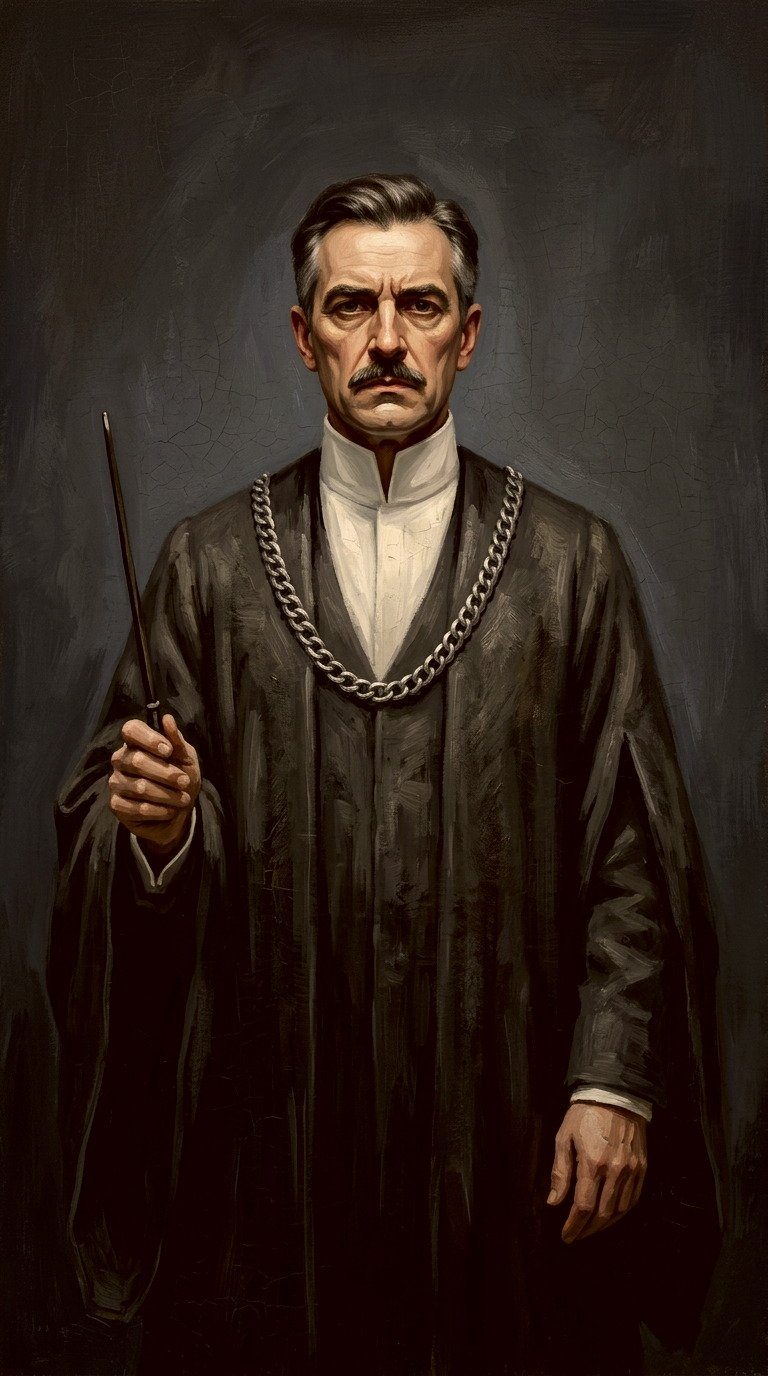
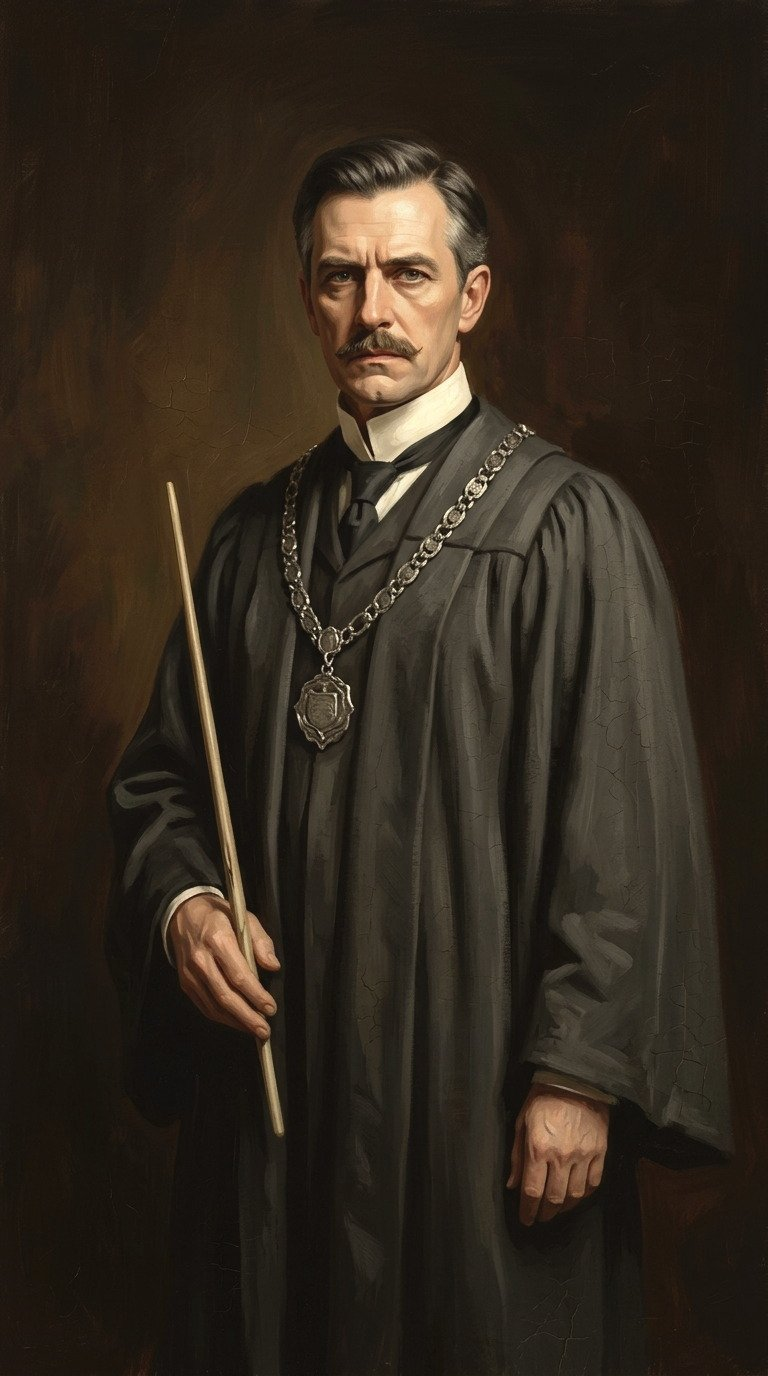
Portraetgalerie: Schulleiterwand mit 8 Rahmen, Zufallsbesetzung, Guards (keine Doppelung, letzte Figur bleibt), Caractacus-Bild ersetzt

diff --git a/index.html b/index.html
@@ -2480,6 +2480,46 @@ body{
     box-shadow:0 0 8px rgba(255,220,140,.9); animation:brauFunke .85s ease-out forwards; }
   @keyframes brauFunke { 0%{opacity:1; transform:translate(0,0) scale(1)} 100%{opacity:0; transform:translate(var(--dx),var(--dy)) scale(.2)} }
   .brau-stand { font-size:13px; color:#b8a883; margin-bottom:8px; }
+/* ===================== PORTRÄTGALERIE (Schulleiterwand) ===================== */
+#screen-portraits { padding: 14px 12px 96px; }
+.wall-head { display:flex; align-items:flex-start; justify-content:space-between; gap:10px; margin-bottom:12px; }
+.wall-head h2 { font-family: var(--font-serif); font-size:19px; margin:0 0 4px; color:var(--dark); letter-spacing:.4px; }
+.wall-sub { font-size:12.5px; color:var(--dark-light); line-height:1.45; max-width:70%; }
+.wall-back { flex:0 0 auto; border:1px solid rgba(197,165,90,.45); background:rgba(26,18,9,.75);
+  color:var(--gold-light); border-radius:10px; padding:7px 11px; font:inherit; font-size:12.5px; cursor:pointer; }
+.portrait-stage { position:relative; width:100%; aspect-ratio:4/3; border-radius:14px; overflow:hidden;
+  background-color:#241f19;
+  background-image: radial-gradient(120% 95% at 50% -10%, #4a3d2c 0%, #2b241c 45%, #12100d 100%);
+  box-shadow: inset 0 0 70px rgba(0,0,0,.8), 0 10px 26px rgba(0,0,0,.45); }
+.wall-bg { position:absolute; inset:0; background-size:cover; background-position:center; opacity:0; transition:opacity .6s ease; }
+.wall-bg.on { opacity:1; }
+.portrait-stage::after { content:""; position:absolute; inset:0; pointer-events:none;
+  background: radial-gradient(75% 60% at 50% 45%, rgba(232,205,138,.05), transparent 70%); }
+.portrait-frame { position:absolute; width:18%; aspect-ratio:9/16; transform:translate(-50%,-50%);
+  padding:5px; border-radius:4px; cursor:pointer;
+  background: linear-gradient(135deg,#7d5f2c 0%,#d9b96b 18%,#6d5024 42%,#c9a45c 70%,#54401d 100%);
+  box-shadow: 0 8px 20px rgba(0,0,0,.6), inset 0 0 0 1px rgba(0,0,0,.55), 0 0 0 1px rgba(232,205,138,.18); }
+.portrait-frame.empty { cursor:default; }
+.portrait-glass { position:relative; width:100%; height:100%; overflow:hidden; border-radius:2px;
+  background:linear-gradient(180deg,#171310 0%,#0c0a08 100%);
+  box-shadow: inset 0 0 16px rgba(0,0,0,.95), inset 0 2px 6px rgba(0,0,0,.9); }
+.portrait-glass img, .portrait-glass video { width:100%; height:100%; object-fit:cover; display:block; }
+.portrait-glass img { transition: opacity .65s ease, transform .65s ease; }
+.portrait-glass img.wall-hide { opacity:0; transform:scale(.985); }
+.wall-sheen { position:absolute; inset:-45%; pointer-events:none;
+  background:linear-gradient(112deg, transparent 44%, rgba(232,205,138,.10) 50%, transparent 56%);
+  animation: wallSheen 9s ease-in-out infinite; }
+@keyframes wallSheen { 0%,100% { transform:translateX(-22%); } 50% { transform:translateX(22%); } }
+.portrait-glass.empty::after { content:""; position:absolute; inset:0;
+  background: radial-gradient(65% 45% at 50% 100%, rgba(232,205,138,.07), transparent 72%); }
+.wall-note { margin-top:12px; font-size:12.5px; color:var(--dark-light); text-align:center; line-height:1.5; }
+.album-wall-btn { display:inline-block; margin:7px auto 2px; border:1px solid rgba(197,165,90,.55);
+  background:linear-gradient(180deg, rgba(232,205,138,.16), rgba(232,205,138,.05));
+  color:var(--gold-light); border-radius:10px; padding:7px 14px; font:inherit; font-size:12.5px; cursor:pointer; }
+@media (prefers-reduced-motion: reduce) {
+  .wall-sheen { animation:none; }
+  .portrait-glass img { transition:opacity .3s ease; }
+}
 </style>
 </head>
 <body>
@@ -2734,6 +2774,21 @@ body{
       <button class="album-nav-btn" id="albumNext">▶</button>
     </div>
   </div>
+</div>
+
+<!-- ==================== SCREEN: PORTRÄTGALERIE ==================== -->
+<div class="screen" id="screen-portraits">
+  <div class="wall-head">
+    <div>
+      <h2>Die Porträtgalerie</h2>
+      <div class="wall-sub" id="wallSub">Noch kein Porträt erwacht.</div>
+    </div>
+    <button class="wall-back" onclick="navigateTo('album')">◀ Album</button>
+  </div>
+  <div class="portrait-stage" id="portraitStage">
+    <div class="wall-bg" id="wallBg"></div>
+  </div>
+  <div class="wall-note">Tippe ein Porträt an, um seine Karte zu öffnen.</div>
 </div>
 
 <!-- ==================== SCREEN: TRÄNKE / ALCHIMIELABOR ==================== -->
@@ -4232,6 +4287,7 @@ function navigateTo(screen) {
   } catch (e) {}
 
   currentScreen = screen;
+  if (screen !== 'portraits') stopWall();
   // Hide all screens
   document.querySelectorAll('.screen').forEach(s => { s.classList.remove('active'); s.style.display = ''; });
   
@@ -4265,6 +4321,9 @@ function navigateTo(screen) {
   } else if (screen === 'potions') {
     document.getElementById('screen-potions').classList.add('active');
     renderSicher(renderPotions, 'potions');
+  } else if (screen === 'portraits') {
+    document.getElementById('screen-portraits').classList.add('active');
+    renderSicher(startWall, 'portraits');
   } else if (screen === 'welcome') {
     document.getElementById('screen-welcome').classList.add('active');
   }
@@ -4276,6 +4335,216 @@ function navigateTo(screen) {
   // Keep bottom nav hidden on welcome (and whenever nobody is logged in)
   document.getElementById('bottomNav').style.display =
     (!currentProfile || screen === 'welcome') ? 'none' : 'flex';
+}
+
+// ===================== PORTRÄTGALERIE: SCHULLEITERWAND =====================
+// Invarianten (gelten immer):
+//  1. Ein Schulleiter ist höchstens EINMAL sichtbar – wallState.heads ist die einzige Wahrheit.
+//  2. 'verlassen' nur aus besetztem Rahmen, 'betreten' nur in leeren Rahmen (Guards, kein Zufall).
+//  3. Die letzte sichtbare Figur darf nicht gehen – die Wand läuft nie leer.
+//  4. Wer unterwegs ist, tritt nach WALL_TRAVEL_MS wieder auf.
+//  5. Ein Rahmen ist während einer Bewegung 'busy'; 'ended' oder Timeout lösen sie auf.
+// Clips: WALL_CLIPS füllen ('cards/<id>-leave.mp4'), ohne Eintrag wird übergeblendet.
+// Mittelpunkte der Rahmen in % der Bühne (CSS zentriert per translate(-50%,-50%)).
+// 4 Spalten à 18 % Breite (halbe Breite 9 %), 2 Reihen: Rahmenhöhe = 0,32 · Bühnenbreite
+// = 42,7 % der Bühnenhöhe (Bühne 4:3) -> Reihen-Mittelpunkte 27,3 % und 72,7 %.
+const WALL_SLOTS = [
+  { x: 17, y: 27.3 }, { x: 39, y: 27.3 }, { x: 61, y: 27.3 }, { x: 83, y: 27.3 },
+  { x: 17, y: 72.7 }, { x: 39, y: 72.7 }, { x: 61, y: 72.7 }, { x: 83, y: 72.7 },
+];
+const WALL_CLIPS = {};          // { 'hp-209': { leave:'…mp4', enter:'…mp4' } }
+const WALL_WALL_IMG = '';       // Wandbild (4:3). Leer = CSS-Verlauf als Platzhalter.
+const WALL_MOVE_MS = 700;       // Überblenddauer, solange kein Clip existiert
+const WALL_CLIP_MS = 5600;      // Timeout-Fallback, falls 'ended' nie feuert
+const WALL_TRAVEL_MS = 4000;    // kürzeste Reisezeit "unterwegs"
+const WALL_TICK_MS = 4500;
+
+let wallState = null, wallTimer = null, wallBuilt = false;
+
+function wallHeads() {
+  const prof = getProfile(currentProfile);
+  const band = ALBUM_BANDS[8];
+  if (!prof || !band || !band.cards2) return [];
+  const owned = prof.cards || {};
+  return band.cards2.filter(id => owned[id] > 0);
+}
+function wallShuffle(a) {
+  for (let i = a.length - 1; i > 0; i--) { const j = Math.floor(Math.random() * (i + 1)); [a[i], a[j]] = [a[j], a[i]]; }
+  return a;
+}
+function wallInit() {
+  const heads = wallHeads();
+  const st = { frames: WALL_SLOTS.map(() => ({ occ: null, busy: false })), heads: {} };
+  heads.forEach(h => { st.heads[h] = { frame: null, status: 'out', since: Date.now() }; });
+  const free = wallShuffle(WALL_SLOTS.map((_, i) => i));
+  const sit = (h, slot) => {
+    if (st.frames[slot].occ) { const old = st.frames[slot].occ; st.heads[old] = { frame: null, status: 'out', since: Date.now() }; }
+    st.frames[slot].occ = h;
+    st.heads[h] = { frame: slot, status: 'in' };
+  };
+  heads.forEach(h => { if (Math.random() < 0.7 && free.length) sit(h, free.pop()); });
+  if (heads.length && !heads.some(h => st.heads[h].status === 'in')) sit(heads[0], free.length ? free.pop() : 0);
+  wallState = st;
+  return st;
+}
+function wallBuild() {
+  const stage = document.getElementById('portraitStage');
+  if (!stage || wallBuilt) return;
+  WALL_SLOTS.forEach((s, i) => {
+    const f = document.createElement('div');
+    f.className = 'portrait-frame empty';
+    f.dataset.slot = i;
+    f.style.left = s.x + '%';
+    f.style.top = s.y + '%';
+    f.innerHTML = '<div class="portrait-glass empty"></div>';
+    f.onclick = () => {
+      const occ = wallState && wallState.frames[i] ? wallState.frames[i].occ : null;
+      if (occ) showCardDetail(occ);
+    };
+    stage.appendChild(f);
+  });
+  wallBuilt = true;
+}
+function wallRender() {
+  if (!wallState) return;
+  const stage = document.getElementById('portraitStage');
+  if (!stage) return;
+  const heads = wallHeads();
+  const sub = document.getElementById('wallSub');
+  if (sub) {
+    sub.textContent = heads.length === 0
+      ? 'Noch kein Porträt erwacht. Sammle Relikt-Karten aus „Die Hogwarts-Gründer · Teil 2", dann ziehen die Schulleiter ein.'
+      : heads.length + ' von 8 Porträts ' + (heads.length === 1 ? 'ist erwacht und wandert' : 'sind erwacht und wandern');
+  }
+  WALL_SLOTS.forEach((_, i) => {
+    const frameEl = stage.querySelector('.portrait-frame[data-slot="' + i + '"]');
+    if (!frameEl) return;
+    if (wallState.frames[i].busy) return;          // während einer Bewegung nicht überschreiben
+    const glass = frameEl.firstElementChild;
+    const occ = wallState.frames[i].occ;
+    if (occ) {
+      const card = getCardById(occ);
+      const src = card ? card.image : '';
+      frameEl.classList.remove('empty');
+      const img = glass.querySelector('img');
+      if (!img || glass.querySelector('video')) {
+        glass.className = 'portrait-glass';
+        glass.innerHTML = '';
+        const n = document.createElement('img');
+        n.src = src; n.alt = card ? card.name : ''; n.draggable = false;
+        glass.appendChild(n);
+      } else if (img.getAttribute('src') !== src) {
+        img.src = src;
+      }
+    } else if (!glass.classList.contains('empty') || !glass.querySelector('.wall-sheen')) {
+      frameEl.classList.add('empty');
+      glass.className = 'portrait-glass empty';
+      glass.innerHTML = '<div class="wall-sheen"></div>';
+    }
+  });
+}
+function wallBusyCount() { return wallState ? wallState.frames.filter(f => f.busy).length : 0; }
+function wallVisibleCount() { return wallState ? Object.keys(wallState.heads).filter(h => wallState.heads[h].status === 'in').length : 0; }
+function wallCanLeave(h) {
+  const st = wallState; if (!st) return false;
+  const hd = st.heads[h];
+  if (!hd || hd.status !== 'in' || hd.frame === null) return false;
+  if (st.frames[hd.frame].busy) return false;
+  return wallVisibleCount() > 1;
+}
+function wallCanEnter(h, slot) {
+  const st = wallState; if (!st) return false;
+  const hd = st.heads[h], f = st.frames[slot];
+  if (!hd || !f || hd.status !== 'out' || f.occ !== null || f.busy) return false;
+  return true;
+}
+function wallPlay(h, slot, kind, done) {
+  const frameEl = document.querySelector('.portrait-frame[data-slot="' + slot + '"]');
+  const glass = frameEl && frameEl.firstElementChild;
+  const clip = WALL_CLIPS[h] && WALL_CLIPS[h][kind];
+  let finished = false;
+  const finish = () => { if (finished) return; finished = true; done(); };
+  if (glass && clip) {
+    glass.className = 'portrait-glass';
+    glass.innerHTML = '';
+    const v = document.createElement('video');
+    v.src = clip; v.muted = true; v.playsInline = true; v.autoplay = true;
+    v.onended = finish; v.onerror = finish;
+    glass.appendChild(v);
+    const p = v.play(); if (p && p.catch) p.catch(() => {});
+    setTimeout(finish, WALL_CLIP_MS);
+    return;
+  }
+  const img = glass && glass.querySelector('img');
+  if (kind === 'leave' && img) {
+    img.classList.add('wall-hide');
+    setTimeout(finish, WALL_MOVE_MS);
+    return;
+  }
+  if (kind === 'enter' && glass) {
+    const card = getCardById(h);
+    if (card) {
+      glass.className = 'portrait-glass';
+      glass.innerHTML = '';
+      const n = document.createElement('img');
+      n.src = card.image; n.alt = card.name; n.draggable = false;
+      n.style.opacity = '0';
+      glass.appendChild(n);
+      requestAnimationFrame(() => { n.style.transition = 'opacity .7s ease'; n.style.opacity = '1'; });
+    }
+    setTimeout(finish, WALL_MOVE_MS + 150);
+    return;
+  }
+  setTimeout(finish, WALL_MOVE_MS);
+}
+function wallLeave(h) {
+  if (!wallCanLeave(h)) return false;
+  const st = wallState, hd = st.heads[h], slot = hd.frame, f = st.frames[slot];
+  f.busy = true; hd.status = 'moving';
+  wallPlay(h, slot, 'leave', () => {
+    f.occ = null; f.busy = false;
+    st.heads[h] = { frame: null, status: 'out', since: Date.now() };
+    wallRender();
+  });
+  return true;
+}
+function wallEnter(h, slot) {
+  if (!wallCanEnter(h, slot)) return false;
+  const st = wallState, f = st.frames[slot];
+  f.busy = true; st.heads[h].status = 'moving';
+  wallPlay(h, slot, 'enter', () => {
+    f.occ = h; f.busy = false;
+    st.heads[h] = { frame: slot, status: 'in' };
+    wallRender();
+  });
+  return true;
+}
+function wallTick() {
+  if (!wallState || currentScreen !== 'portraits' || document.hidden) return;
+  if (wallBusyCount() > 0) return;                       // eine Bewegung zur Zeit
+  const st = wallState, now = Date.now();
+  const freeSlots = st.frames.map((f, i) => ({ f, i })).filter(o => o.f.occ === null && !o.f.busy);
+  const wanderers = Object.keys(st.heads).filter(h => st.heads[h].status === 'out' && now - (st.heads[h].since || 0) >= WALL_TRAVEL_MS);
+  if (wanderers.length && freeSlots.length) {            // 1) jemand kehrt zurück
+    wallEnter(wanderers[Math.floor(Math.random() * wanderers.length)], freeSlots[Math.floor(Math.random() * freeSlots.length)].i);
+    return;
+  }
+  const present = Object.keys(st.heads).filter(h => st.heads[h].status === 'in');
+  if (present.length > 1) {                              // 2) jemand geht los
+    wallLeave(present[Math.floor(Math.random() * present.length)]);
+  }
+}
+function startWall() {
+  wallBuild();
+  if (!wallState) wallInit();
+  const bg = document.getElementById('wallBg');
+  if (bg && WALL_WALL_IMG) { bg.style.backgroundImage = 'url("' + WALL_WALL_IMG + '")'; bg.classList.add('on'); }
+  wallRender();
+  if (wallTimer) clearInterval(wallTimer);
+  wallTimer = setInterval(() => { try { wallTick(); } catch (e) {} }, WALL_TICK_MS);
+}
+function stopWall() {
+  if (wallTimer) { clearInterval(wallTimer); wallTimer = null; }
 }
 
 // ===================== WELCOME / PROFILES =====================
@@ -5747,6 +6016,13 @@ function buildAlbumSubPage(band, prof) {
     <div class="album-band-title">${band.title2 || (band.title + ' · Teil 2')}</div>
     <div class="album-band-sub">${band.short} · Teil 2 · ${ownedIn} von ${subIds.length} Karten</div>
   `;
+  if (band.id === 9) {
+    const wb = document.createElement('button');
+    wb.className = 'album-wall-btn';
+    wb.innerHTML = '🖼 Porträtgalerie';
+    wb.onclick = (e) => { if (e) e.stopPropagation(); navigateTo('portraits'); };
+    head.appendChild(wb);
+  }
   el.appendChild(head);
 
   const grid = document.createElement('div');
@@ -7631,7 +7907,7 @@ init();
 
 // ===================== APP-VERSION & UPDATES =====================
 const APP_VERSION = '2.7';        // bei jedem Deploy erhöhen
-const APP_BUILD = 'v100';          // muss mit CACHE_NAME in sw.js übereinstimmen
+const APP_BUILD = 'v102';          // muss mit CACHE_NAME in sw.js übereinstimmen
 const APP_DATE = '21.09.2026';
 
 // Versions-Anzeige auf der Startseite (zeigt, welcher Stand geladen ist).

diff --git a/sw.js b/sw.js
@@ -2,7 +2,7 @@
    Magische Belohnungen – Service Worker
    Cached animierte Porträt-Videos für sofortige Wiedergabe
    ============================================================ */
-const CACHE_NAME = 'hp-tcg-v100';
+const CACHE_NAME = 'hp-tcg-v102';
 const BASE = '.';
 
 const PRECACHE_URLS = [
